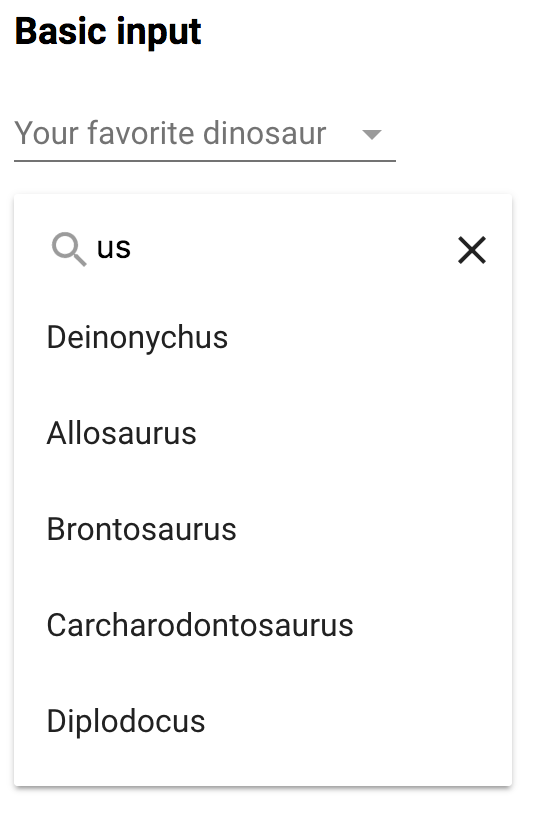
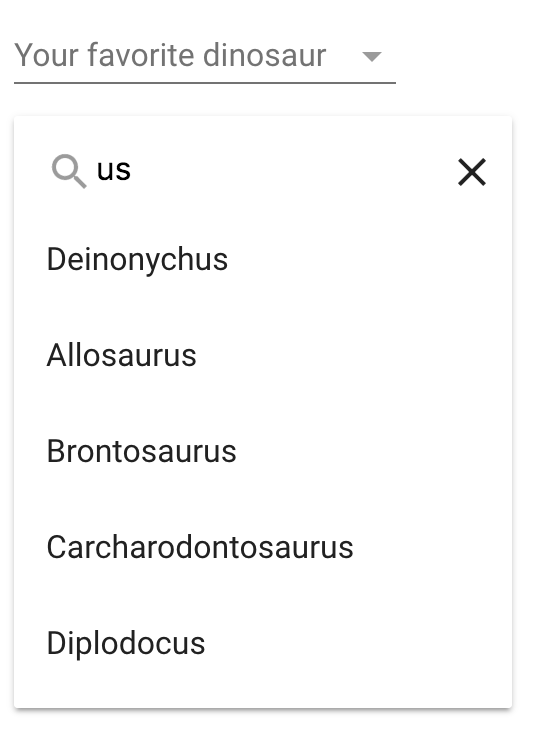
updated readme

diff --git a/demo/index.html b/demo/index.html
@@ -52,7 +52,7 @@
       It's possible to customise the dropdown menu to your taste. Provide a template tag containing your custom layout,
       it will receive a variable 'items', containing all items after filtering.
     </p>
-    <paper-dropdown-input fancy label="Your favorite dinosaur" items='[[complexItems]]' filter-property=dinoName>
+    <paper-dropdown-input label="Your favorite dinosaur" items='[[complexItems]]' filter-property=dinoName>
       <template>
         <p disabled>Carnivores</p>
         <template is="dom-repeat" items="[[_getCarnivores(items)]]" as="item">
@@ -67,7 +67,7 @@
     </paper-dropdown-input>
 
     <h3>Fancy input</h3>
-    <paper-dropdown-input fancy label="Your favorite dinosaur" items='[[complexItems]]' filter-property=dinoName>
+    <paper-dropdown-input label="Your favorite dinosaur" items='[[complexItems]]' filter-property=dinoName>
       <template>
         <template is="dom-repeat" items="[[items]]" as="item">
           <dinosaur-card data="[[item]]"></dinosaur-card>

diff --git a/README.md b/README.md
@@ -3,9 +3,9 @@ A paper-input that provides the user with input suggestions
 
 _[Demo and API Docs](https://juravenator.github.io/paper-dropdown-input/components/paper-dropdown-input/)_
 
-## Examples
+# Examples
 
-### Basic input
+## Basic input
 
 <!---
 ```
@@ -20,12 +20,13 @@ _[Demo and API Docs](https://juravenator.github.io/paper-dropdown-input/componen
 ```
 -->
 ```html
-    <paper-dropdown-input label="Your favorite dinosaur" items='["Velociraptor","Deinonychus","Allosaurus","Brontosaurus","Carcharodontosaurus","Diplodocus","T-Rex"]'></paper-dropdown-input>
-    <p style="height: 450px"></p>
+    <paper-dropdown-input label="Your favorite dinosaur"
+                          items='["Velociraptor","Deinonychus","Allosaurus","Brontosaurus","Carcharodontosaurus","Diplodocus","T-Rex"]'>
+    </paper-dropdown-input>
 ```
 ![Basic input demo](demo/screenie1.png)
 
-### Custom template
+## Custom template
 
 `complexItems` is an array of objects of the form:
 ```json
@@ -35,7 +36,7 @@ _[Demo and API Docs](https://juravenator.github.io/paper-dropdown-input/componen
 }
 ```
 ```html
-<paper-dropdown-input fancy label="Your favorite dinosaur" items='[[complexItems]]'>
+<paper-dropdown-input label="Your favorite dinosaur" items='[[complexItems]]'>
   <template>
     <p disabled>Carnivores</p>
     <template is="dom-repeat" items="[[_getCarnivores(items)]]" as="item">
@@ -51,25 +52,65 @@ _[Demo and API Docs](https://juravenator.github.io/paper-dropdown-input/componen
 ```
 ![Custom template demo](demo/screenie2.png)
 
-### Completely custom template
+## Completely custom template
 
 `complexItems` is an array of objects of the form:
 ```json
 {
-  "value": "Deinonychus",
+  "dinoName": "Deinonychus",
   "avatar": "deinonychus.png",
   "type": "carnivore",
   "description": "Deinonychus is a genus of carnivorous dromaeosaurid coelurosaurian dinosaurs, with one described species, Deinonychus antirrhopus. This species, which could grow up to 3.4 metres (11 ft) long, lived during the early Cretaceous Period, about 115–108 million years ago (from the mid-Aptian to early Albian stages). Fossils have been recovered from the U.S. states of Montana, Utah, Wyoming, and Oklahoma, in rocks of the Cloverly Formation, Cedar Mountain Formation and Antlers Formation, though teeth that may belong to Deinonychus have been found much farther east in Maryland."
 }
 ```
+Notice the absence of the `value` property in the object. The name of the property to filter on in objects can be set using `filterProperty`.
 ```html
-    <paper-dropdown-input label="Your favorite dinosaur" items='[[complexItems]]'>
+    <paper-dropdown-input label="Your favorite dinosaur"
+                          items='[[complexItems]]'
+                          filter-property="dinoName">
       <template>
         <template is="dom-repeat" items="[[items]]" as="item">
           <dinosaur-card data="[[item]]"></dinosaur-card>
         </template>
       </template>
     </paper-dropdown-input>
+
+    <dom-module id="dinosaur-card">
+      <template>
+        <style>/* ... */</style>
+
+        <div horizontal layout>
+          <img src="[[data.avatar]]" alt="[[data.name]]" />
+          <div>
+            <h3>[[data.value]]</h3>
+            <p>[[data.description]]</p>
+          </div>
+        </div>
+
+      </template>
+      <script>
+        Polymer({
+          is: 'dinosaur-card',
+          properties: {
+            data: Object,
+            label: {
+              type: String,
+              computed: "_getLabel(data)"
+            }
+          },
+          listeners: {
+            "tap": "dinotap"
+          },
+          dinotap: function(event) {
+            event.stopPropagation();
+            this.fire('iron-select', {item: this});
+          },
+          _getLabel: function(data) {
+            return data.dinoName;
+          }
+        });
+      </script>
+    </dom-module>
 ```
 ![Completely custom template demo](demo/screenie3.png)
 
